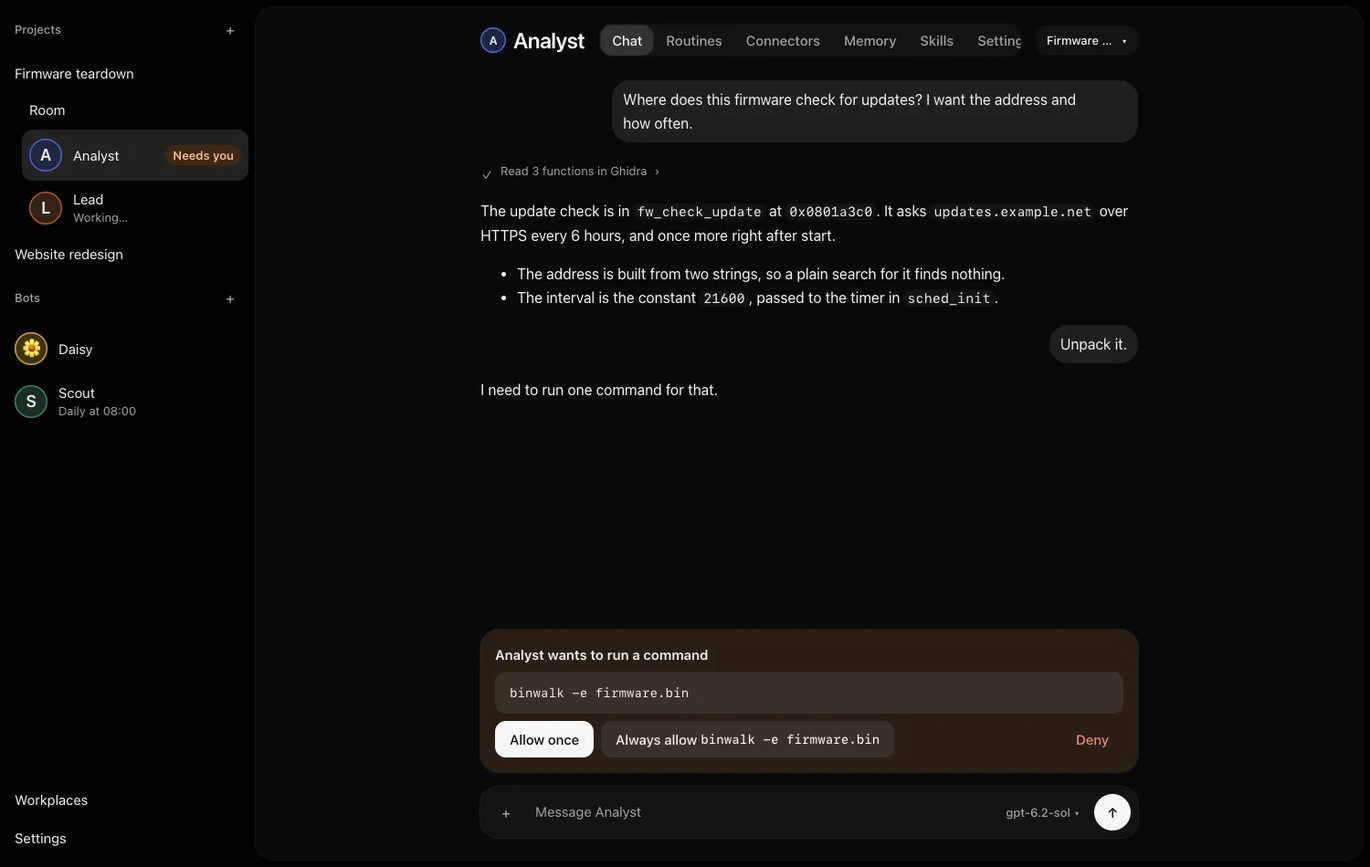
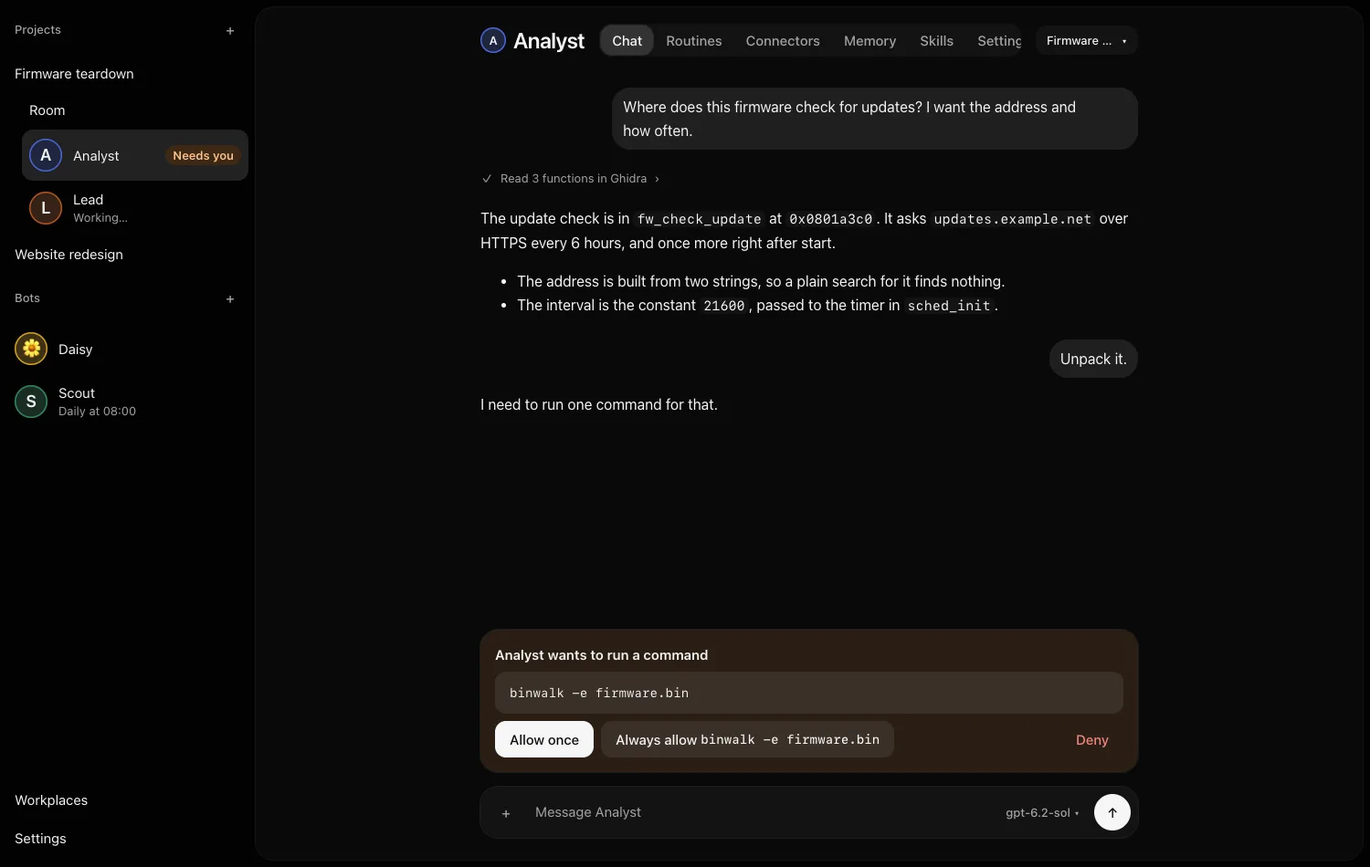
Window: one column, no title bar, even rhythm
The page runs under a transparent title bar; the sidebar, the header and the gaps move the window. Header, messages and composer share two edges whatever the scroll bar's width. Bot rows fill the sidebar. A person's message has its actions beside it. The header and settings rows go to two rows at 760 px. Thin scroll bars.

Closes #298.

diff --git a/window/ui/src/style.css b/window/ui/src/style.css
@@ -8,6 +8,9 @@
 html, body, #root { height: 100%; }
 html, body { overflow-x: clip; }
 body { margin: 0; background: var(--bg); color: var(--fg); font: var(--size-ui)/var(--leading) var(--font-ui); -webkit-font-smoothing: antialiased; }
+/* Scroll bars: thin, a quiet thumb on no track. */
+:root { scrollbar-color: var(--bg-soft-3) transparent; }
+* { scrollbar-width: thin; }
 h1 { font-size: var(--size-head); line-height: 30px; font-weight: var(--weight-strong); margin: 0; }
 h2 { font-size: var(--size-title); line-height: 24px; font-weight: var(--weight-strong); margin: var(--space-5) 0 var(--space-2); }
 h3 { font-size: var(--size-ui); font-weight: var(--weight-strong); margin: var(--space-4) 0 var(--space-1); }
@@ -153,7 +156,8 @@ label:has(> input[role=switch]) { display: inline-flex; align-items: center; gap
 .settings { display: grid; grid-template-columns: var(--nav-w) minmax(0, 1fr); gap: var(--space-5); align-items: start; max-width: calc(var(--thread-w) + var(--nav-w) + var(--space-5)); }
 /* The page is wider than a column, and its header starts where it does. A rule of its own: the build drops this selector from a list with `.settings`. */
 main > header:has(+ .settings) { max-width: calc(var(--thread-w) + var(--nav-w) + var(--space-5)); }
-.settings nav { position: sticky; top: calc(var(--head-h) + var(--space-1)); z-index: 1; background: var(--bg); }
+/* Its words start where the title's do, and its first row is centred on the first section's heading. */
+.settings nav { position: sticky; top: calc(var(--head-h) - var(--space-2)); z-index: 1; margin: calc(-1 * var(--space-2)) 0 0 calc(-1 * var(--space-2)); background: var(--bg); }
 .settings nav ul { list-style: none; margin: 0; padding: 0; display: grid; gap: var(--space-0); }
 .settings > div > .group:first-child { margin-top: 0; }
 .settings code { overflow-wrap: anywhere; }
@@ -161,7 +165,9 @@ main > header:has(+ .settings) { max-width: calc(var(--thread-w) + var(--nav-w) 
   .settings { grid-template-columns: minmax(0, 1fr); gap: var(--space-2); }
   .settings nav ul { display: flex; overflow-x: auto; }
   .settings nav li { flex: none; }
-  /* A row's control goes under its title, as wide as the column; a switch or a button stays at the end. */
+}
+/* A main area too narrow for a title and its field side by side: a row's control goes under its title, as wide as the column; a switch or a button stays at the end. */
+@container (max-width: 760px) {
   .setting:not(.inline) { grid-template-columns: minmax(0, 1fr); row-gap: var(--space-2); }
   .setting:not(.inline) .control { justify-content: flex-start; flex-wrap: wrap; }
   .setting:not(.inline) .control > :where(input:not([type=checkbox], [type=radio], [type=color], [type=range]), select) { width: 100%; }
@@ -261,6 +267,8 @@ main > .first-run { margin-block: auto; max-width: calc(var(--thread-w) / 2); pa
 /* ---- The window: sidebar, main area, side pane ---- */
 .app { display: grid; grid-template-columns: var(--side-w) minmax(0, 1fr) auto; grid-template-rows: minmax(0, 1fr); height: 100vh; padding: var(--space-2) var(--space-2) var(--space-2) 0; background: var(--bg-side); }
 .sidebar { padding: var(--space-1) var(--space-2); overflow: auto; display: flex; flex-direction: column; gap: var(--space-2); }
+/* In Bate's own window the page runs under the title bar: the window's buttons sit over the top of the sidebar. */
+.app.shell .sidebar { padding-top: var(--titlebar-h); }
 .sidebar h2 { font-size: var(--size-small); line-height: var(--leading); font-weight: 500; letter-spacing: 0; color: var(--fg-muted); margin: var(--space-1) var(--space-2) 0; }
 /* A section's heading with its one action beside it. */
 .sidebar .heading { display: flex; align-items: center; justify-content: space-between; }
@@ -282,12 +290,16 @@ main > .first-run { margin-block: auto; max-width: calc(var(--thread-w) / 2); pa
 /* A bot's row is taller, with a bigger face; chosen, it keeps its weight so that its words do not move. */
 .sidebar .row:not(.plain) { min-height: var(--row-h-l); }
 .sidebar .avatar { width: var(--avatar-l); height: var(--avatar-l); font-size: var(--size-title); }
-/* A bot's row with its `⋯` menu beside it; a pointer sees the menu when it is over the row or has the focus, a touch screen always (not in the strip: see below). */
-.sidebar li.bot { display: flex; align-items: center; gap: var(--space-1); }
-.sidebar li.bot > .row { flex: 1; min-width: 0; }
+/* A bot's row with its `⋯` menu over its end; a pointer sees the menu when it is over the row or has the focus, a touch screen always (not in the strip: see below). */
+.sidebar li.bot { position: relative; }
+/* The row is as wide as the sidebar; while its menu shows, the row keeps room for it. */
+.sidebar li.bot > .row { padding-right: calc(var(--control-h) + var(--space-2)); }
+.sidebar li.bot > .more { position: absolute; top: 0; bottom: 0; right: var(--space-1); align-items: center; }
 @media (hover: hover) {
   .sidebar li.bot > .more { opacity: 0; }
   .sidebar li.bot:hover > .more, .sidebar li.bot:focus-within > .more, .sidebar li.bot > .more:has([aria-expanded=true]) { opacity: 1; }
+  .sidebar li.bot > .row { padding-right: var(--space-3); }
+  .sidebar li.bot:hover > .row, .sidebar li.bot:focus-within > .row, .sidebar li.bot:has(> .more [aria-expanded=true]) > .row { padding-right: calc(var(--control-h) + var(--space-2)); }
 }
 /* A working bot's row: a dot that breathes beside "Working…". */
 .pulse { flex: none; width: 8px; height: 8px; margin-left: auto; border-radius: 50%; background: var(--ink); animation: beat var(--beat) var(--ease) infinite; }
@@ -343,12 +355,14 @@ button.primary kbd { color: inherit; background: color-mix(in oklab, currentColo
 /* ---- The conversation ---- */
 .chat { display: flex; flex-direction: column; flex: 1; min-height: 0; max-width: none; }
 .chat > * { width: 100%; max-width: var(--thread-w); margin-inline: auto; }
-/* The scroller is as wide as the window, so its bar is at the edge; the messages keep the column. */
-.items { flex: 1; overflow: auto; min-height: 0; max-width: none; }
-.items > div { max-width: var(--thread-w); margin-inline: auto; }
+/* The scroller reaches the sheet's edge, so its bar is there; the messages keep the column, edge to edge with the header and the box. */
+.items { flex: 1; overflow: auto; min-height: 0; width: auto; max-width: none; margin-inline: calc(-1 * var(--space-5)); padding-left: var(--space-5); }
+/* Placed on the sheet's column (`cqw` is the sheet's width), so its edges are the header's whatever the bar's width. */
+.items > div { width: min(100cqw, var(--thread-w)); margin-left: calc((100cqw - min(100cqw, var(--thread-w))) / 2); }
 .item { display: flex; flex-direction: column; align-items: flex-start; gap: var(--space-1); padding: var(--space-2) 0; user-select: text; -webkit-user-select: text; }
 .item > * { max-width: 100%; margin-block: 0; }
-.item.user { align-items: flex-end; }
+/* A message of the person's starts a turn: more room above it. */
+.item.user { align-items: flex-end; padding-top: var(--space-4); }
 .bubble { padding: var(--space-2) var(--space-3); border-radius: var(--radius-bubble); background: var(--bg-soft); min-width: 0; max-width: min(var(--reply-w), 100%); overflow-wrap: anywhere; font-size: var(--size-chat); line-height: var(--leading-chat); }
 .bubble > :first-child { margin-top: 0; }
 .bubble > :last-child { margin-bottom: 0; }
@@ -372,7 +386,7 @@ button.primary kbd { color: inherit; background: color-mix(in oklab, currentColo
 .run > summary::after { content: "›"; transition: transform var(--fast) var(--ease); }
 .run[open] > summary::after { transform: rotate(90deg); }
 .run > summary:hover { color: var(--fg); }
-.mark { display: inline-grid; place-items: center; width: 14px; height: 14px; flex: none; }
+.mark { display: inline-grid; place-items: center; width: 14px; height: 14px; flex: none; line-height: 1; }
 .mark.ok::before { content: "✓"; }
 .mark.bad { color: var(--danger); }
 .mark.bad::before { content: "✕"; }
@@ -408,6 +422,8 @@ button.primary kbd { color: inherit; background: color-mix(in oklab, currentColo
 @media (hover: hover) {
   .item .actions { opacity: 0; transition: opacity var(--fast) var(--ease); }
   .item:hover .actions, .item:focus-within .actions { opacity: 1; }
+  /* A message of the person's has its actions on its left, on its line, so they take no room under it. */
+  .item.user:has(> .actions) { flex-direction: row-reverse; align-items: center; justify-content: flex-start; }
 }
 .plan { list-style: none; padding: 0; margin: var(--space-1) 0; }
 .plan [aria-current] { font-weight: var(--weight-strong); color: var(--fg); }
@@ -443,7 +459,7 @@ button.primary kbd { color: inherit; background: color-mix(in oklab, currentColo
 
 /* ---- The bot's conversations: a chip at the end of the header opens the list; each row has a ⋯ for its actions; the foot has the actions on the whole ---- */
 /* With the pane open the row is short: the chip gives way first (its name is cut), then the tabs scroll. */
-main > header > .conversation { display: flex; flex-shrink: 8; margin-left: auto; min-width: var(--control-w-short); }
+main > header > .conversation { display: flex; flex-shrink: 8; justify-content: flex-end; margin-left: auto; min-width: var(--control-w-short); }
 .popover.start { left: 0; right: auto; }
 .popover.below { top: calc(100% + var(--space-1)); bottom: auto; left: 0; right: auto; }
 .popover.end { left: auto; right: 0; }
@@ -560,6 +576,8 @@ main > header > .conversation { display: flex; flex-shrink: 8; margin-left: auto
 @media (max-width: 640px) {
   /* The sidebar becomes a strip of projects and bots across the top. */
   .app { grid-template-columns: minmax(0, 1fr); grid-template-rows: auto minmax(0, 1fr); padding: 0 var(--space-2) var(--space-2); }
+  .app.shell { padding-top: var(--titlebar-h); }
+  .app.shell .sidebar { padding-top: var(--space-1); }
   .sidebar { flex-direction: row; align-items: center; padding-inline: 0; }
   /* A heading stays, close to its `+`, which alone says nothing; a list with no row takes no room. */
   .sidebar .heading { flex: none; }
@@ -570,10 +588,13 @@ main > header > .conversation { display: flex; flex-shrink: 8; margin-left: auto
   .sidebar ul, .sidebar li { flex: none; }
   /* The strip scrolls, so a menu would be cut off: there the bot's Settings has Pause. */
   .sidebar li.bot > .more { display: none; }
+  .sidebar li.bot > .row { padding-right: var(--space-2); }
   .sidebar .foot { margin: 0 0 0 auto; }
   .row { width: auto; }
   .sidebar .row { max-width: 12rem; }
   main { padding: 0 var(--space-3) var(--space-3); }
+  .items { margin-inline: 0; padding-left: 0; }
+  .items > div { width: auto; margin-left: 0; }
   .popover.below.end { left: 0; }
   .item.user .bubble { max-width: 92%; }
   /* A phone has no Esc to press. */
@@ -584,11 +605,14 @@ main > header > .conversation { display: flex; flex-shrink: 8; margin-left: auto
   .menu.more { position: relative; }
   .menu.more .popover { left: auto; right: 0; width: max-content; }
 }
-/* A main area too narrow for one row (a phone, or the side pane open): the header is two rows, who and the conversation, then the tabs. */
+/* A main area too narrow for one row (the window at its first size, a phone, the side pane open): the header is two rows, who and the conversation, then the tabs. */
+@container (max-width: 760px) {
+  main > header { display: grid; grid-template-columns: auto minmax(0, 1fr); gap: var(--space-2) var(--space-3); padding-block: var(--space-2) var(--space-3); }
+  main > header > [role=tablist] { grid-row: 2; grid-column: 1 / -1; justify-self: start; max-width: 100%; }
+}
 @container (max-width: 640px) {
-  main > header { flex-wrap: wrap; gap: var(--space-1) var(--space-3); padding-block: var(--space-2); }
-  [role=tablist] { order: 1; flex: 1 0 100%; }
-  [role=tab] { flex: 1 0 auto; padding: 0 var(--space-2); }
+  main > header > [role=tablist] { justify-self: stretch; }
+  [role=tab] { flex: 1 0 auto; padding: 0 var(--space-1); }
   /* The words get a row of their own, the buttons the one under it. */
   .composer { flex-wrap: wrap; }
   .composer textarea { order: -1; flex: 1 0 100%; }

diff --git a/window/ui/src/main.tsx b/window/ui/src/main.tsx
@@ -362,8 +362,9 @@ function App() {
 
   if (unpaired) return <Pair onPair={pair} />;
   return (
-    <div className="app">
-      <nav className="sidebar" aria-label="Projects and bots">
+    // In Bate's window there is no title bar: the sidebar, the header and the gaps between them move the window.
+    <div className={inShell ? "app shell" : "app"} data-tauri-drag-region="">
+      <nav className="sidebar" aria-label="Projects and bots" data-tauri-drag-region="deep">
         <ul>
           <li>{plain("Activity", view?.page === "attention", () => setView({ page: "attention" }), waiting > 0 && <span className="badge">{waiting} {waiting === 1 ? "needs" : "need"} you</span>)}</li>
         </ul>
@@ -407,25 +408,25 @@ function App() {
         {error && <p className="banner error" role="alert" onClick={() => setError("")}>{error}</p>}
         {view?.page === "attention" && (
           <>
-            <header><div className="who"><h1>Activity</h1></div></header>
+            <header data-tauri-drag-region="deep"><div className="who"><h1>Activity</h1></div></header>
             <Attention key={connection} bots={bots} open={(id, conversation) => openBot(id, "chat", conversation)} />
           </>
         )}
         {view?.page === "new-bot" && (
           <>
-            <header><div className="who"><h1>New bot</h1></div></header>
+            <header data-tauri-drag-region="deep"><div className="who"><h1>New bot</h1></div></header>
             <NewBot opened={(id) => openBot(id)} report={setError} />
           </>
         )}
         {view?.page === "projects" && (
           <>
-            <header><div className="who"><h1>Projects</h1></div></header>
+            <header data-tauri-drag-region="deep"><div className="who"><h1>Projects</h1></div></header>
             <Projects key={`${connection}-${view.asked}`} adding={view.asked !== undefined} bots={bots} projects={projects} open={openProject} />
           </>
         )}
         {view?.page === "addons" && (
           <>
-            <header>
+            <header data-tauri-drag-region="deep">
               <div className="who"><h1>Add-ons</h1></div>
               <Tabs ids={Object.keys(ADDON_TABS) as AddonTab[]} names={ADDON_TABS} tab={view.tab} set={(tab) => setView({ page: "addons", tab })} />
             </header>
@@ -438,13 +439,13 @@ function App() {
         )}
         {view?.page === "settings" && (
           <>
-            <header><div className="who"><h1>Settings</h1></div></header>
+            <header data-tauri-drag-region="deep"><div className="who"><h1>Settings</h1></div></header>
             <AppSettings key={connection} section={view.section} choose={(section) => setView({ page: "settings", section })} />
           </>
         )}
         {view?.page === "project" && project && (
           <>
-            <header>
+            <header data-tauri-drag-region="deep">
               <div className="who"><h1>{project.name}</h1></div>
               <Tabs ids={projectTabs} names={PROJECT_TABS} tab={view.tab} set={(t) => openProject(project.id!, t)} />
             </header>
@@ -473,7 +474,7 @@ function App() {
         )}
         {view?.page === "bot" && bot && (
           <>
-            <header>
+            <header data-tauri-drag-region="deep">
               <div className="who">
                 <Avatar bot={bot} />
                 <h1>{bot.name}</h1>

diff --git a/window/ui/src/tokens.css b/window/ui/src/tokens.css
@@ -85,6 +85,8 @@
   --row-h: 48px;
   --row-h-l: 56px;
   --head-h: 72px;
+  /* The room the window's own buttons take at the top left, in Bate's window. */
+  --titlebar-h: 40px;
   --avatar: 28px;
   --avatar-l: 36px;
   --side-w: 280px;

diff --git a/window/src/main.rs b/window/src/main.rs
@@ -204,6 +204,9 @@ fn open_window_on(app: &AppHandle, bot: Option<&str>) -> tauri::Result<()> {
     let label = format!("bate-{}", OPENED.fetch_add(1, Ordering::Relaxed));
     let mut builder = WebviewWindowBuilder::new(app, label, WebviewUrl::App("index.html".into()))
         .title("Bate")
+        // The page runs under the title bar; its sidebar and header move the window (`data-tauri-drag-region`).
+        .title_bar_style(tauri::TitleBarStyle::Overlay)
+        .hidden_title(true)
         .inner_size(1000.0, 700.0)
         // Files dropped on the page reach the page (attachments), not the shell.
         .disable_drag_drop_handler()

diff --git a/docs/design-system.md b/docs/design-system.md
@@ -11,7 +11,8 @@ The owner chose a chat-app look: a bot is a contact, a conversation is messages.
 - **Lines are faint and few.** A field has an edge, because a field must be found (3:1). The sheets and what floats on them (a card, the composer, a popover, a dialog) have a ring at a few percent of the text's colour under their shadow. A table in a message has one line under its head. Rows, groups and buttons have none.
 - **Two colours with a meaning.** Black (`--ink`; white in dark) is the main action and a switch that is on; the chosen row is one grey step darker. Apricot (`--warn`, `--warn-soft`) is what needs the person: the "Needs you" badge and the bot's question. Green (`--accent`) is a link and the focus ring. Everything else is one neutral grey. A bot's own colour shows on its avatar only.
 - **Rounded rectangles.** Buttons, tabs and fields have a 12 px corner, sheets, wells, cards and the composer 20 px; a round button and a badge are the only pills.
-- **One header, no bar.** The page's title (a bot's face and name) stays at the head of the sheet with the tabs beside it as one track, and the conversation at the end. Nothing else sits between it and the first message.
+- **One header, no bar.** The page's title (a bot's face and name) stays at the head of the sheet with the tabs beside it as one track, and the conversation at the end. Nothing else sits between it and the first message. In Bate's own window there is no title bar either: the page runs under it, the window's buttons sit over the top of the sidebar, and the sidebar, the header and the gaps between the sheets move the window (`data-tauri-drag-region`).
+- **One column, one pair of edges.** The header, the messages and the composer start and end on the same two lines, whatever the scroll bar's width; a scroll bar is thin, a quiet thumb on no track.
 - **What a bot says is the page's own text**, with no bubble; what the person said is the one filled shape.
 - **The system's font**, 15 px on a 22 px line, 13 px for the small lines under a name; 16 px on 26 for what is said in a chat. A page's title is 24 px. Three weights: 400, 500, 600.
 
@@ -48,7 +49,7 @@ All in `window/ui/src/tokens.css`.
 | Type | `--font-ui`, `--font-mono`, `--size-small` 13, `--size-ui` 15, `--size-chat` 16, `--size-title` 18, `--size-head` 24 (a page's title), `--size-display` 32 (the first run's title), `--leading` 22, `--leading-small` 18 (the 13 px lines of a row), `--leading-chat` 26, `--weight-strong` 600, `--tracking-head` | Chat text is 16/26; everything else 15/22. Code is never under 12 px |
 | Space | `--space-0` to `--space-6`: 2, 4, 8, 12, 16, 24, 40 | A 4 px grid and one half step |
 | Shape | `--radius-s` 6, `--radius-m` 12, `--radius-l` 20, `--radius-bubble` 20, `--radius-pill` | Code and small things; buttons, tabs, fields, rows and tiles; sheets, wells, cards, the composer and dialogs; the person's message; a badge |
-| Size | `--control-h` 40, `--control-h-small` 32, `--row-h` 48, `--row-h-l` 56, `--head-h` 72, `--avatar` 28, `--avatar-l` 36, `--side-w` 280, `--thread-w` 720, `--reply-w` 640, `--popover-w` 300, `--nav-w` 180, `--chip-w` 180, `--tip-w` 240, `--control-w` 240 (a select or input in a settings row), `--control-w-short` 112 (a number of up to seven digits) | |
+| Size | `--control-h` 40, `--control-h-small` 32, `--row-h` 48, `--row-h-l` 56, `--head-h` 72, `--titlebar-h` 40 (room for the window's buttons above the sidebar, in Bate's window), `--avatar` 28, `--avatar-l` 36, `--side-w` 280, `--thread-w` 720, `--reply-w` 640, `--popover-w` 300, `--nav-w` 180, `--chip-w` 180, `--tip-w` 240, `--control-w` 240 (a select or input in a settings row), `--control-w-short` 112 (a number of up to seven digits) | |
 | Motion | `--fast` 100 ms, `--slow` 180 ms, `--spin` 900 ms, `--beat` 1400 ms, `--ease` | Hover and press; a message arriving; the working marks turning and breathing (stopped, not shortened, for reduced motion) |
 
 ## Components
@@ -61,10 +62,10 @@ All in `window/ui/src/style.css`. "Built" means it is there now; a number is the
 | Text field, select | `<input>`, `<textarea>`, `<select>`; in a form, `.fields` with one `<label>` per control; `.fields.stack` puts each label over its control, as wide as the column | placeholder, disabled, focus | yes |
 | Form row with hint, error and "Saved" | `Field` (`Form.tsx`): a `.field` with a `<label>` over one control, a `<small>` hint and a `<small class="error" role="alert">` under it; the control takes the label's id and describes itself by both. After a save `<Saved>` puts "Saved" beside the control (a `role="status"` region that is always there) until the next edit; an error stays by the control that caused it (`useSaves` keeps both by key). Each form ends with `.actions`: Save, then "Saved". Settings screens use `Setting` and `Group` (next two rows) instead; `Field` stays for the channels and pairing forms | placeholder, hint, error, saved, disabled with the reason in the hint, focus | yes |
 | Settings group | `Group` (`Form.tsx`): `<section class="group">` with an `<h2>` (with an `id` and `tabindex="-1"` when the app's nav jumps to it) over one `.group-rows` well (`--bg-soft`, `--radius-l`, no line between rows: each row's height and the space round it part them). Settings of a bot, a project and the app are all groups. A bot's grants are three: "Always allowed", "Allowed in one conversation" (each row names its conversation) and "Blocked tools" (each with **Unblock**); each has a **Remove** or **Unblock** button on its row, and the last two show only when they have a row. A bot's "Secrets" group (in Bate's own window only, never on a device) has a row for each secret, its name with its site in a `<small>`, and **Remove**, or a `.note` when there is none; never a value. A `<fieldset>` (in a dialog) is a well too, with its `<legend>` inside it | | yes |
-| Settings row | `Setting` (`Form.tsx`): a `.setting` of at least `--row-h`: on the left a title and one `<small>` hint (and the error, in `role="alert"`), on the right its `.control` (a switch, a select or input `--control-w` wide, a button). A button there is small by itself, with no `small` class; beside a text box or a select it keeps the box's height. A lone input, select or textarea takes the title as its label and describes itself by hint and error. `wide` puts a text area or a long line under the title; `inline` keeps a button beside the title. Under 640 px the control goes under the title. After a save `<Saved>` shows beside the control | hint, error, saved, disabled, focus | yes |
+| Settings row | `Setting` (`Form.tsx`): a `.setting` of at least `--row-h`: on the left a title and one `<small>` hint (and the error, in `role="alert"`), on the right its `.control` (a switch, a select or input `--control-w` wide, a button). A button there is small by itself, with no `small` class; beside a text box or a select it keeps the box's height. A lone input, select or textarea takes the title as its label and describes itself by hint and error. `wide` puts a text area or a long line under the title; `inline` keeps a button beside the title. When the main area is 760 px wide or less (the window at its first size) the control goes under the title, as wide as the column. After a save `<Saved>` shows beside the control | hint, error, saved, disabled, focus | yes |
 | Switch | `<label><input type="checkbox" role="switch"> Analyst</label>`: a checkbox that takes effect at once, with its words in the label. A checkbox that is only part of a form stays a checkbox | on, off, disabled, focus | yes |
 | Tabs | `role="tablist"` with `role="tab"` buttons (`id="tab-…"`, `aria-controls="tabpanel"`): one track (a rounded rectangle of `--fill`) with the chosen tab raised on it (`--bg-thumb`; its weight does not change); only the chosen tab is in the Tab order. Left and right arrows choose the neighbour and wrap, Home and End the first and last. What the tab shows is inside `<div role="tabpanel" id="tabpanel" aria-labelledby="tab-…">`, which adds no box (`display: contents`). The track scrolls sideways when the row is short | chosen, hover, focus | yes |
-| Header | `main > header`, `--head-h` (72 px), one row in the column's width, staying at the head of the sheet while the page scrolls under it: `.who` (the page's title at 24 px: the name, with the avatar for a bot), the tabs, and for a bot's Chat the conversation chip at the end. On one row the chip's name is cut first, then the tabs scroll. When the main area is 640 px wide or less (a phone, or the side pane open beside it) it is two rows: who and the conversation, then the tabs as wide as the row (a container query on `main`); the composer's words get a row of their own there too. Over the app's settings, which are wider than a column, it is as wide as that page | | yes |
+| Header | `main > header`, `--head-h` (72 px), one row in the column's width, staying at the head of the sheet while the page scrolls under it: `.who` (the page's title at 24 px: the name, with the avatar for a bot), the tabs, and for a bot's Chat the conversation chip at the end (at the column's end edge however short its name). When the main area is 760 px wide or less (the window at its first size, a phone, or the side pane open beside it) it is two rows: who and the conversation, then the tabs from the title's edge (a container query on `main`); at 640 px or less the tabs are as wide as the row, and the composer's words get a row of their own. Over the app's settings, which are wider than a column, it is as wide as that page | | yes |
 | List row | `.row` with an `.avatar` and a `.label` (a name and a `<small>` line under it); `current` for the chosen one, which changes its fill only: its weight and width stay. In the sidebar a bot's row is `--row-h-l` high and its face `--avatar-l`. A row to tick is `<label class="row">` with a checkbox before the avatar; one that cannot be ticked is dimmed and its `<small>` says why | hover, chosen, disabled, focus | yes |
 | Badge | `.badge` at the end of a `.row`, or under the name inside a bot's `.label` in the sidebar (a long name keeps its width): one word on its fill, with no dot. Plain (warn) for what needs the person: "Needs you". `.badge.quiet` for what does not: "New reply", "Paused" (a paused bot shows it in place of "Working…" and "New reply"). A working bot has no badge: its `.label` has a `<small>Working…</small>` line and its row ends in a `.pulse` dot. In a routine's row it is how its last run ended: "Sent" and "Skipped" quiet (a `<small>` gives the reason: "The bot was paused."); "Failed", "Missed", "Stopped" (the step limit) plain, with the reason in a `<small class="error">`. A routine held back after failed runs has a second `.badge.quiet` after it: "3 failed in a row, next run Tomorrow 09:00" | | yes |
 | Sidebar | `<nav class="sidebar">`: a `.heading` for each section (Projects, Bots), each with its `+` beside the `<h2>` (a `round ghost` button; there is no "New project" row), a `<ul>` of rows, a nested `<ul>` for a project's bots, `.row.plain` for a row with no avatar, and `<ul class="foot">` for the app's own pages at the bottom. Above the first heading one `.row.plain` "Activity" with a `.badge` "2 need you" while a bot waits. In the strip under 640 px the headings stay, each right before its `+`: a bare `+` does not say what it adds | hover, chosen (`current`, with `aria-current`), focus | yes |
@@ -77,7 +78,7 @@ All in `window/ui/src/style.css`. "Built" means it is there now; a number is the
 | List head | `.head`: the list's `<h2>` and, at the end, its one `small` button (or two for a list that can be reloaded). It replaces the opening paragraph; a list has no more than half a line of note | | yes |
 | Connector row | One `<li>` of `.rows`: `.what` (name, then the address in a `<small><code>`), `.actions` with the `⋯` menu (Add to bots…, Remove…), and under them a closed `<details>` whose `<summary>` says "On for 5 of 6 bots" (and, in the error colour, how many need a look). Opening it shows one nested row for each bot: its switch, its state in a `<small>`, Sign in or Sign out and, once the bot's engine has loaded the connector, a closed `<details>` "2 tools" (", 1 blocked") with a row for each tool: its own name in a `<code>`, a `<small>` ("Not blocked", or "Blocked: …"), and a **Blocked** switch (`role="switch"`, labelled with the tool and the bot). A bot on an installed agent has no tool list. A workplace's row is the same, with "On in 1 of 2 projects" | closed, open, problem | yes |
 | Avatar | `.avatar` with `--tint` set to the bot's colour | with a sign, with a letter, without a colour | yes |
-| Message | `.item.user` or `.item.reply` with a `.bubble` (15/24); `.actions` under it; a message that just arrived fades in (`.arriving`); in the Room a `<small class="from">` above it says who wrote it (avatar, name, "to" whom, time). A reply has no bubble: it is the page's own text, as wide as the column. The person's message is the one filled shape (`--bubble-user`, a tint of the ink, at most 80% wide). Code in a reply is a `<pre>` on `--fill` with no edge; a table has a 600 header with one line under it | past (greyed), marked (a search hit), arriving | yes |
+| Message | `.item.user` or `.item.reply` with a `.bubble` (15/24); `.actions` under it (with a pointer, a message of the person's has them on its left, on its line, so they take no room); a message of the person's has more room above it, as it starts a turn; a message that just arrived fades in (`.arriving`); in the Room a `<small class="from">` above it says who wrote it (avatar, name, "to" whom, time). A reply has no bubble: it is the page's own text, as wide as the column. The person's message is the one filled shape (`--bubble-user`, a tint of the ink, at most 80% wide). Code in a reply is a `<pre>` on `--fill` with no edge; a table has a 600 header with one line under it | past (greyed), marked (a search hit), arriving | yes |
 | Run of calls | `.item.run` with `<details class="run">`: a `<summary>` of a `.mark` (`spin` while the bot is at it, `ok` ✓ when done, `bad` ✕ when a call failed), what happened in the person's words ("Ran 3 commands, read 1 file"; "Running 2 commands" while it goes), a red ", 1 failed" when a call failed, and a chevron. Calls that follow each other, and the thinking among them, are one run (`fold` in `chat.ts`); a plan is its own checklist (`.item.plan`) and ends the run. Opened, a `<ul>` set in under the summary has a row for each call, named by the command, the path or what was searched (`aim` in `chat.ts`), which opens to the call's arguments and output, and the thinking as plain text | closed, open, running, done, failed | yes |
 | Check line | `.item.checked`: one quiet line (`--fg-muted`, small) of what a check said, in the conversation where it happened and kept after a reload: "Checked: nothing to fix.", "Checked: something to fix. <notes> The bot is working on it.", "Checked: this did not pass, and the answer stands as it is. <notes>" or "Not checked: <why>". It is its own line (`checkText` in `chat.ts`), never inside the bot's message. The line says who checked: "Checked by <model or bot>: nothing to fix.". In Settings, the "Check" group has one `<select>` row ("Check answers before the turn ends": Off, its own model, a model, or a bot of its project); a choice that cannot be used now is shown as it was saved with the reason in the row's error; outside Bate's own window the select is disabled and says so; for a bot on an installed agent the group holds a `.note` in its place | passed, failed, not passed, not checked; select off, chosen, broken, disabled | yes |
 | Undo line | `.undo`, at the end of the row of a call that kept the earlier file (a `write` or `edit` whose `tool_end` has `undo`; only in Bate's own window), on the same row as the file name; it wraps under the name when the row is narrow. A `small` **Undo** button. Used, the row shows `<small class="note" role="status">Undone</small>` in its place, also after a reload (the `undone` entry). A file that is no longer as the change left it is not overwritten: `<small class="error" role="alert">No longer as the bot left it.</small>` and a `small danger` **Undo anyway**; another failure shows the service's message and keeps Undo. A call with no copy (a long file, a failed call) has no Undo | Undo, busy, undone, changed since, failed | yes |
@@ -95,7 +96,7 @@ All in `window/ui/src/style.css`. "Built" means it is there now; a number is the
 | Adapter row | `AdapterRow.tsx`: a `Setting` in a bot's Settings, Engine, for an agent whose adapter Bate can fetch. Not installed: **Install…**. Installed by Bate: its version in the hint (and that the person's own copy comes first on the PATH, when it does) with **Check for updates** (on a click only: says "Up to date", or opens the sheet to update) and **Remove…**. Both open the Install sheet with no rows to tick; with no usable Node it is `blocked` with what is missing | not installed, installed, up to date, own copy first, blocked, failed | yes |
 | Confirm dialog | `Confirm.tsx`, a Dialog with a title, one sentence saying what happens, and `.actions` with the `danger` confirm button first and Cancel after. Cancel holds the focus, so that Enter does not do it; a failure stays in the dialog | busy, error | yes (a bot's Delete) |
 | Code block | `CodeBlock` (`Form.tsx`): `.codeblock` with the text in a `<pre>` and a small **Copy** button. Where the clipboard is not offered (a page served over plain http) the text is selected for ⌘C and the line says so | copied | yes (pairing codes, the certificate's fingerprint, an agent's install command) |
-| Settings of the app | `.settings`: a `<nav aria-label="Settings sections">` of `.row.plain` buttons (`aria-current` on the chosen one) and, beside it, every section in one scroll, each a `Group`. A button in the list chooses the section, scrolls to it and puts the focus on its `<h2 id="settings-…" tabindex="-1">`, which is also where ⌘K puts the focus. The list stays in sight (sticky). Under 640 px the list is a strip across the top | chosen, loading | yes |
+| Settings of the app | `.settings`: a `<nav aria-label="Settings sections">` of `.row.plain` buttons (`aria-current` on the chosen one) and, beside it, every section in one scroll, each a `Group`. A button in the list chooses the section, scrolls to it and puts the focus on its `<h2 id="settings-…" tabindex="-1">`, which is also where ⌘K puts the focus. The list stays in sight (sticky); its words start at the title's edge and its first row is centred on the first section's heading. Under 640 px the list is a strip across the top | chosen, loading | yes |
 | Quick Ask panel | `<section class="quick">` (`QuickAsk.tsx`) that fills the small floating panel the shell opens (`window.__BATE_QUICK__`; about 560 by 340 px, always that size). Asking: a `<form>` of a bot `<select>` with its `.avatar`, one `<textarea>` (Enter sends), the `.attached` pills for the quote (`Selected text: “…”`) and the screenshot (`Screenshot of` the screen or a window), a `.note` for what a switch could not take, and `.foot` with a `<small>` of the keys and a **Send** button. Answering: a `<header>` with the bot and a `small` **Open in Bate**, the question in `.asked`, `.answer` with a `.bubble` of Markdown (it scrolls), the working mark, the `.question` card, and an `.error` or `.note` for how the turn ended. Esc closes it | empty, answering, question, with a quote and a screenshot, error | yes (#229) |
 | Dialog | `Dialog.tsx`: a `<dialog class="sheet">` opened with `showModal()` and holding one `<form>` (a `.fields.stack` one for a form): the dialog is the scrim, the form the panel, `.actions` stay at the foot while it scrolls. Focus goes to the first field, stays inside, and returns to the button that opened it; Esc or a click on the scrim closes it. Projects, the install sheet, the confirm dialog and the palette are all built on it. A form of fields only (a routine's) is `Sheet.tsx` with its fields as children | scrolling | yes |
 | Palette | `<Dialog className="palette">` (⌘K) around one `<form>`: a search `<input role="combobox">` over a `<ul role="listbox">` of groups (`<li role="group" aria-label>` with a `<small>` name and a `<ul>` of options). An option is a `<li role="option" class="row">` (`row plain` when it has no avatar and no second line) with an `.avatar`, a `.label` (the name, a `<small>` under it) and, at the end, the key that does the same as a `<kbd>` (hidden under 640 px). Arrows move the choice (`aria-selected`, focus stays in the box), Enter runs it, Esc closes (the dialog's own). A `.note` says "Searching conversations…", an `.error` says why the search failed, and `.empty` says nothing matches, with a button to clear the box. Its commands include **Pause all bots** (while a bot is not paused) and **Resume all bots** (while one is) | choice, searching, no match, failed | yes |
@@ -121,11 +122,11 @@ Three regions in one grid: sidebar, main area, side pane.
 | Region | Size | Rule |
 |---|---|---|
 | Ground | The window, with 8 px round the sheets | `--bg-side`. The sidebar lies on it; the sheets are rounded (`--radius-l`) |
-| Sidebar | `--side-w`: 280 px, 220 px under 900 px | Sections with a small heading; a bot's row 52 px high with a 36 px face, any other row 36 px; what is new goes at the bottom |
-| Main area | The rest, a sheet | Every screen is one column of at most `--thread-w` (720 px), centred. The conversation's scroller is as wide as the sheet, so its bar is at the sheet's edge |
+| Sidebar | `--side-w`: 280 px, 220 px under 900 px | Sections with a small heading; a bot's row 56 px high with a 36 px face, as wide as the sidebar (its `⋯` lies over its end), any other row 40 px; what is new goes at the bottom. In Bate's window it starts `--titlebar-h` down, under the window's buttons |
+| Main area | The rest, a sheet | Every screen is one column of at most `--thread-w` (720 px), centred. The conversation's scroller is as wide as the sheet, so its bar is at the sheet's edge; the messages in it are placed on the sheet's column (`cqw`), so they keep the header's edges |
 | Side pane | 480 px, dragged wider or narrower, a second sheet | The grip is the 8 px between the two sheets. Under 860 px it lies over the conversation (`pane.ts`) as a sheet with a scrim |
 
-Widths the page must work at: 1200 px and more, 900 px, and 390 px (a phone, since the page is also served to other devices). Under 640 px the sidebar becomes a strip across the top that scrolls sideways: Activity, "Projects" and "Bots" each with its `+` and its rows, then the app's pages. The header is two rows there, and wherever the main area is that narrow: who and the conversation, then the tabs, which scroll sideways if they still do not fit.
+Widths the page must work at: 1200 px and more, 900 px, and 390 px (a phone, since the page is also served to other devices), and Bate's window at its first size, 1000 by 700. Under 640 px the sidebar becomes a strip across the top that scrolls sideways: Activity, "Projects" and "Bots" each with its `+` and its rows, then the app's pages. The header is two rows wherever the main area is 760 px wide or less: who and the conversation, then the tabs, which scroll sideways if they still do not fit.
 
 ## Accessibility
 
